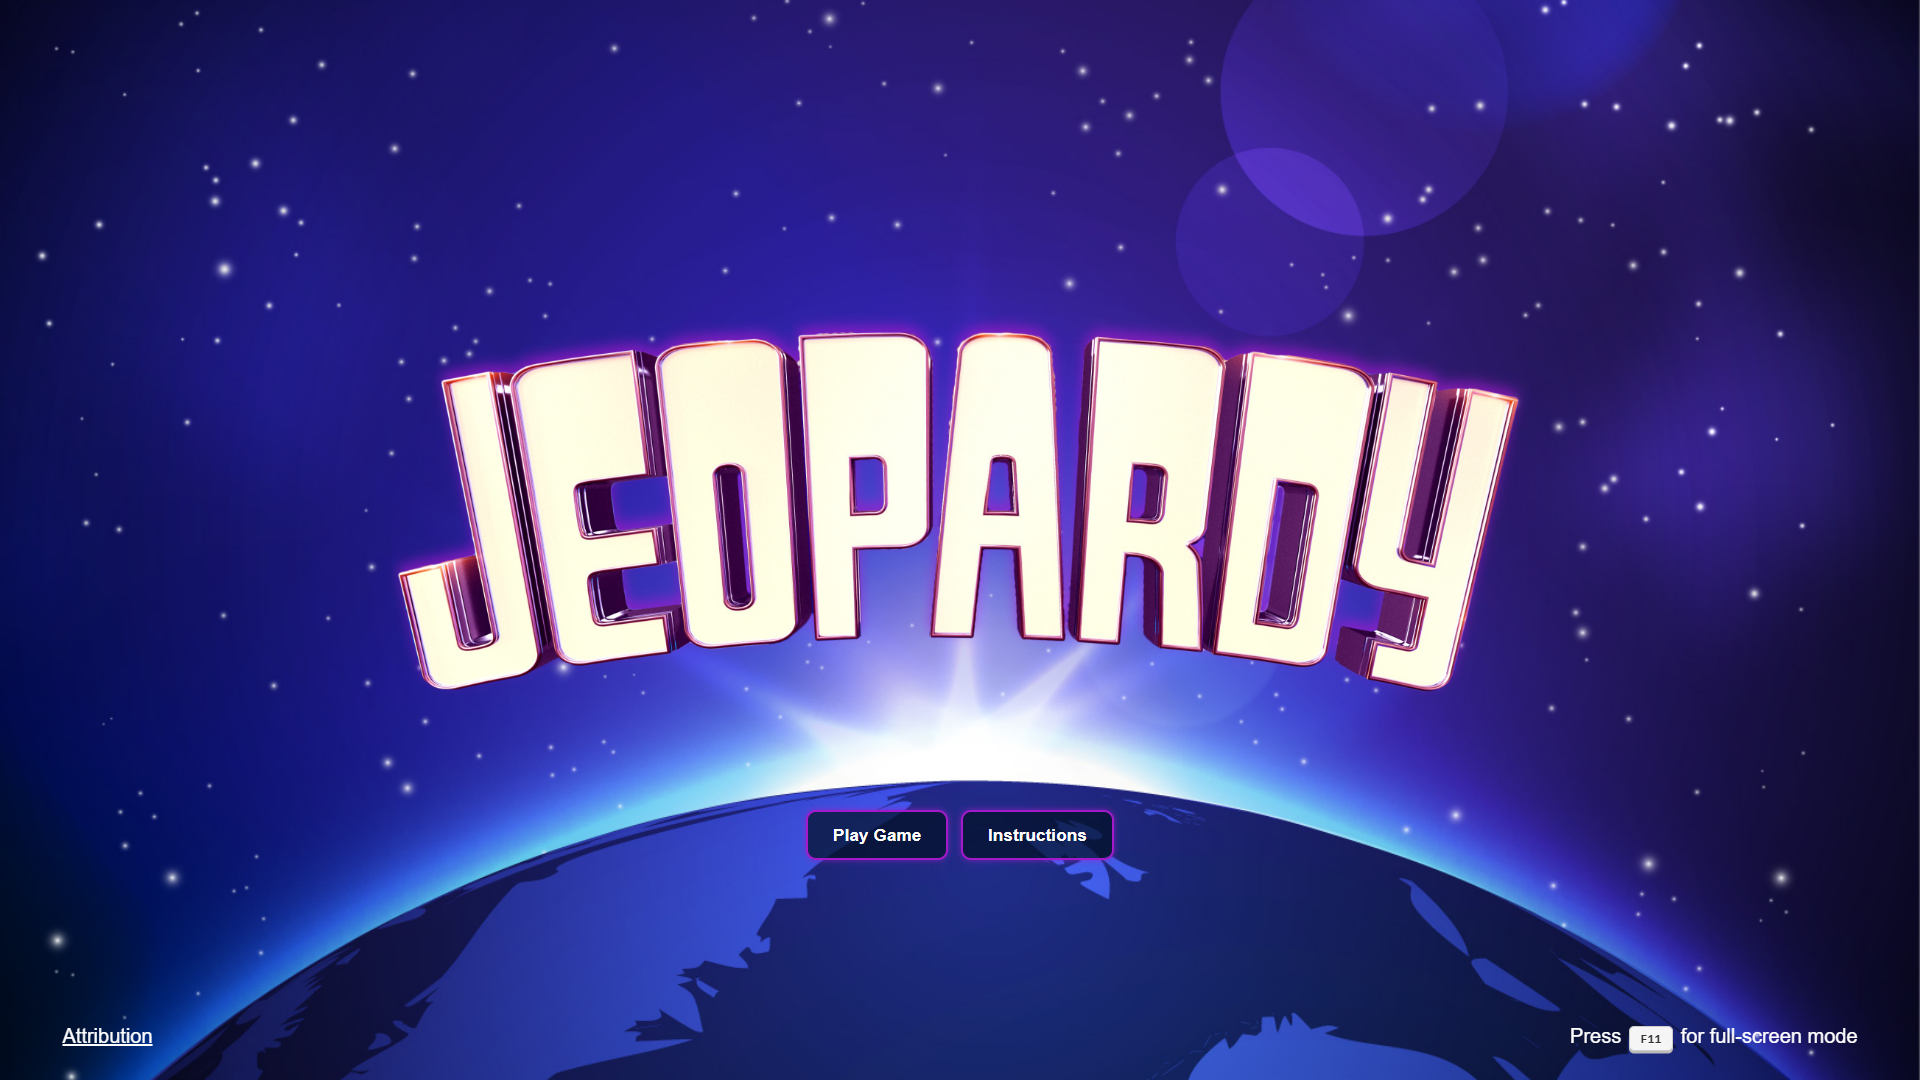
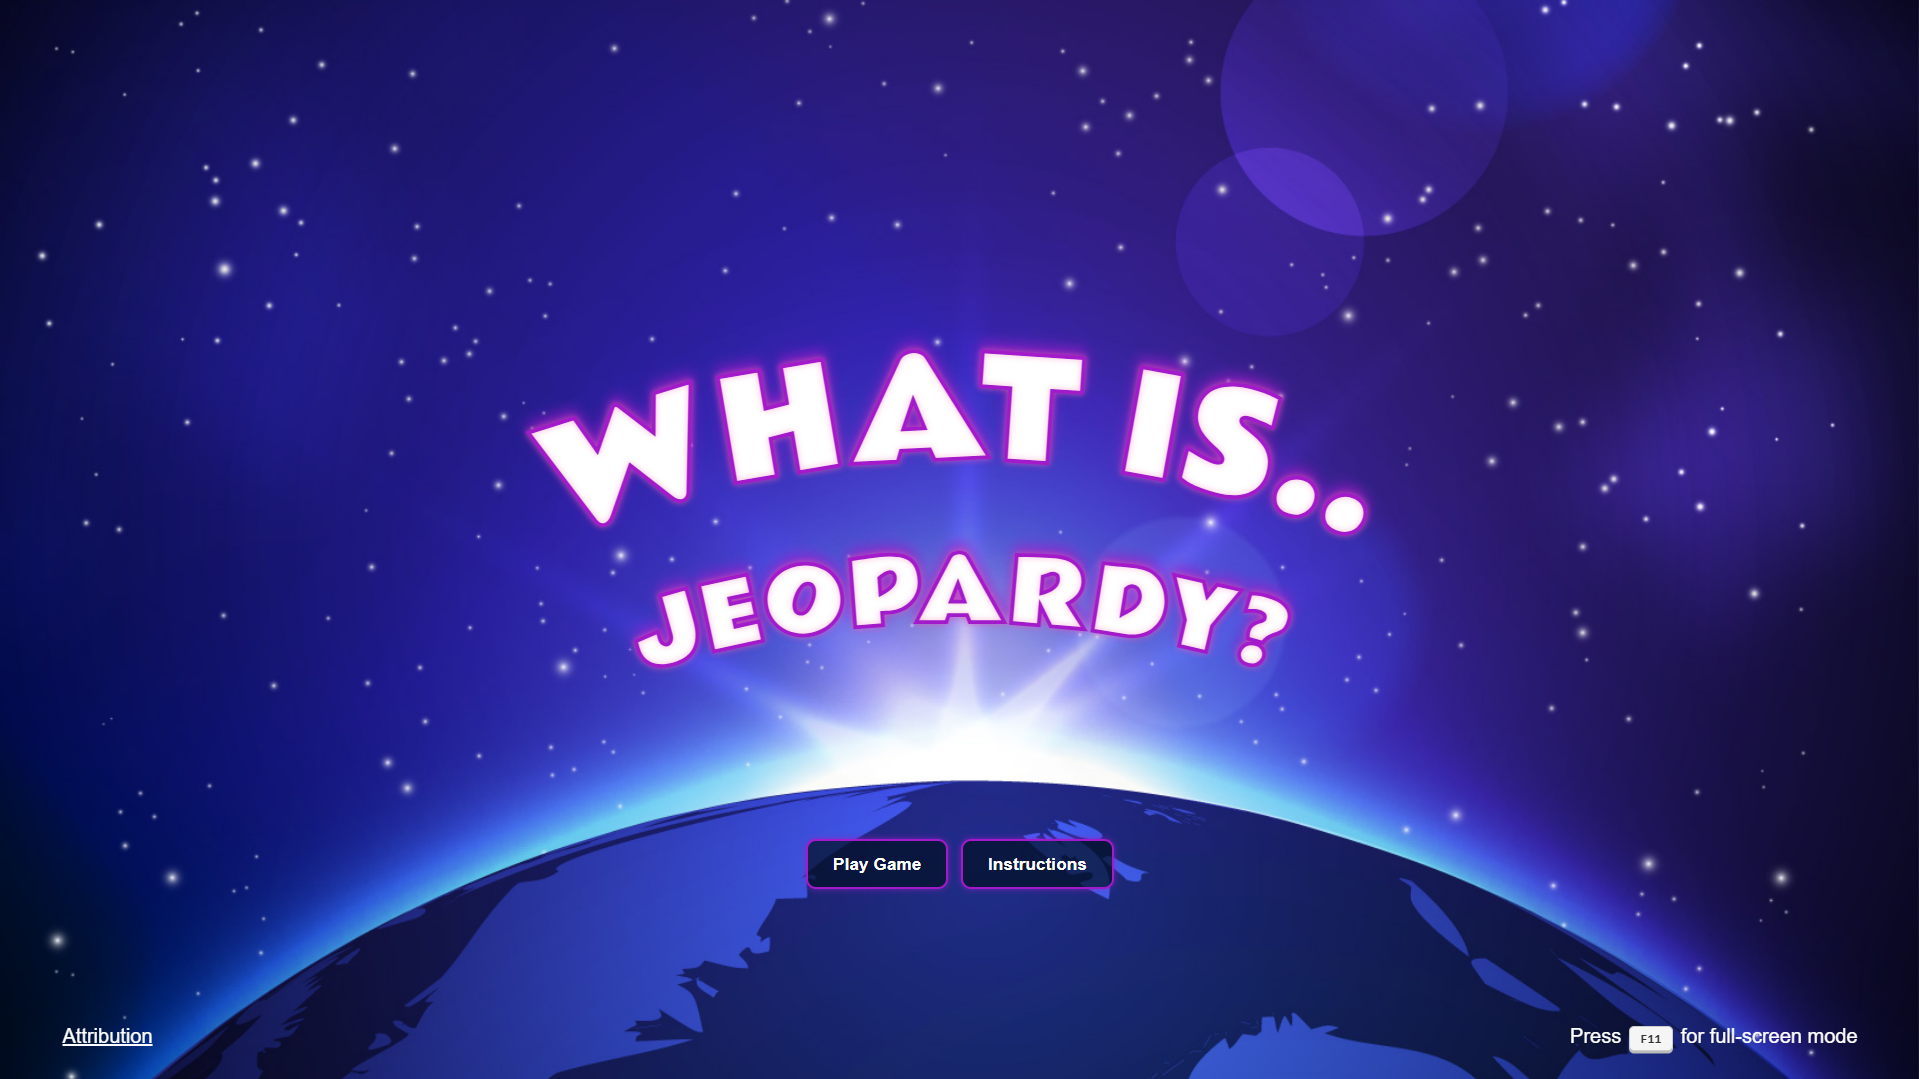
update font and title

diff --git a/src/components/StartPage.js b/src/components/StartPage.js
@@ -28,8 +28,28 @@ export default function StartPage({ goToGameSettings, goToInstructions, goToAttr
     return (
         <div className="start-page background-start">
             <StarTrail />
+            <div className="jeopardy-name">
+                <svg width="750" height="350" viewBox="0 0 750 350">
+                    <path id="arcPathTop" d="M 50,200 Q 375,70 700,200" fill="transparent" stroke="transparent" />
+
+                    <path id="arcPathBottom" d="M 50,330 Q 375,200 700,330" fill="transparent" stroke="transparent" />
+
+                    <text fill="#fff" font-size="110" font-family="Rammetto One" stroke="#A31ACB" stroke-width="3" text-anchor="middle">
+                        <textPath href="#arcPathTop" startOffset="50%">
+                            WHAT IS..
+                        </textPath>
+                    </text>
+
+                    <text fill="#fff" font-size="70" font-family="Rammetto One" stroke="#A31ACB" stroke-width="3" text-anchor="middle">
+                        <textPath href="#arcPathBottom" startOffset="50%">
+                            JEOPARDY?
+                        </textPath>
+                    </text>
+                </svg>
+            </div>
+
             {/* <h1 className='start-title'>JEOPARDY</h1> */}
-            <img className="jeopardy-name" src={jeopardyName} alt="jeopardy" />
+            {/* <img className="jeopardy-name" src={jeopardyName} alt="jeopardy" /> */}
             <div className="btn-start-container">
                 <button className="btn btn-startpage" onClick={goToGameSettings}>Play Game</button>
                 <button className="btn btn-startpage" onClick={goToInstructions}>Instructions</button>

diff --git a/src/App.css b/src/App.css
@@ -7,7 +7,7 @@
 
 @import url('https://fonts.googleapis.com/css2?family=Quicksand:wght@300..700&display=swap');
 @import url('https://fonts.googleapis.com/css2?family=Barlow+Condensed:ital,wght@0,100;0,200;0,300;0,400;0,500;0,600;0,700;0,800;0,900;1,100;1,200;1,300;1,400;1,500;1,600;1,700;1,800;1,900&family=Quicksand:wght@300..700&display=swap');
-@import url('https://fonts.googleapis.com/css2?family=Barlow+Condensed:ital,wght@0,100;0,200;0,300;0,400;0,500;0,600;0,700;0,800;0,900;1,100;1,200;1,300;1,400;1,500;1,600;1,700;1,800;1,900&family=Knewave&family=Quicksand:wght@300..700&display=swap');
+@import url('https://fonts.googleapis.com/css2?family=Barlow+Condensed:ital,wght@0,100;0,200;0,300;0,400;0,500;0,600;0,700;0,800;0,900;1,100;1,200;1,300;1,400;1,500;1,600;1,700;1,800;1,900&family=Luckiest+Guy&family=Quicksand:wght@300..700&family=Rammetto+One&display=swap');
 :root {
   --primary-color-darker: #025966;
   --primary-color-transparent: rgb(4, 160, 184, 0.9);
@@ -48,16 +48,19 @@ body {
 
 h1,
 h2 {
-  font-family: 'Knewave';
   font-family: 'geopardy';
+  font-family: 'Rammetto One';
   color: #fff;  
   -webkit-text-stroke: 2px var(--primary-shadow-pink);
+  -webkit-text-stroke: 1px var(--primary-shadow-pink);
   text-shadow: 0 0 10px var(--text-shadow-pink);
   filter: drop-shadow(0 0 5px rgba(242, 102, 171, 0.2));
 
   /* font-size: 2.5em;
   font-size: 3em; */
   margin-top: 0;
+  text-transform: uppercase;
+  letter-spacing: 2px;
 }
 
 ul {

diff --git a/public/index.html b/public/index.html
@@ -5,9 +5,9 @@
     <link rel="icon" href="%PUBLIC_URL%/favicon.png" />
     <meta name="viewport" content="width=device-width, initial-scale=1" />
     <meta name="theme-color" content="#000000" />
-    <meta name="description" content="Jeopardy Game" />
-    <meta property="og:title" content="Jeopardy Game" />
-    <meta property="og:description" content="Jeopardy Game created by Jessica Hvirfvel" />
+    <meta name="description" content="A trivia game where the question is the answer." />
+    <meta property="og:title" content="What is.. Jeopardy?" />
+    <meta property="og:description" content="A trivia game where the question is the answer." />
     <meta name="image" property="og:image" content="https://virveln.github.io/jeopardy-game/homepageImage.png" />
     <meta property="og:url" content="https://virveln.github.io/jeopardy-game" />
     <meta property="og:type" content="website" />
@@ -27,7 +27,7 @@
       work correctly both with client-side routing and a non-root public URL.
       Learn how to configure a non-root public URL by running `npm run build`.
     -->
-    <title>Jeopardy Game</title>
+    <title>What is.. Jeopardy?</title>
   </head>
   <body>
     <noscript>You need to enable JavaScript to run this app.</noscript>

diff --git a/src/styles/startpage.css b/src/styles/startpage.css
@@ -28,7 +28,7 @@
 } */
 
 .jeopardy-name {
-    width: 60%;
+    /* width: 60%; */
     margin-bottom: 50px;
     margin-top: 80px;
     filter: drop-shadow(0 -5px 5px var(--primary-shadow-pink));
@@ -36,7 +36,11 @@
     /* Behåll proportionerna */
     animation: growBounce 1.5s ease-out forwards 0.2s;
     transform-origin: center center;
+
+    text-shadow: 0 0 5px var(--text-shadow-pink);
+    /* filter: drop-shadow(0 0 5px rgba(242, 102, 171, 0.2)); */
 }
+
 
 .btn-start-container {
     display: flex;
